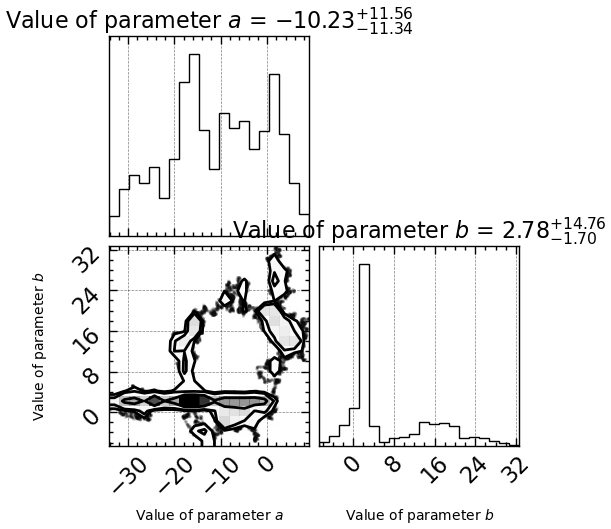
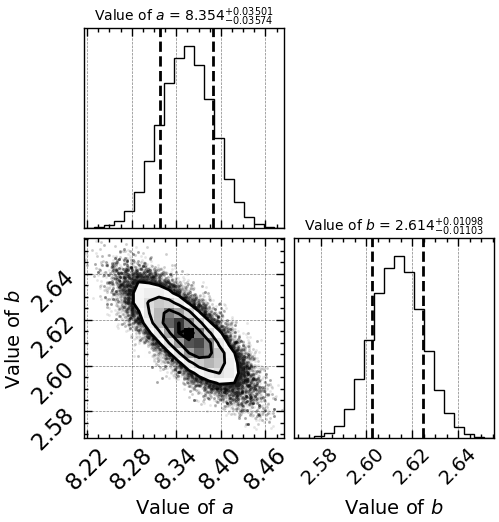
MCMC linear corner plot comlete

Changed region(s): [[0.0, 0.0, 1.0, 1.0]]

diff --git a/data_fitter.py b/data_fitter.py
@@ -79,7 +79,7 @@ def linear_ls(data_x, data_y):
     )
 
     # Generate results, only fit parameters are of concerns
-    result = fit_param
+    result = fit_param, fit_sigma
 
     # Print results
     print()
@@ -122,7 +122,7 @@ def linear_ll(data_x, data_y, param_a, param_b):
     fit_sigma = np.std(data_y - fit_model)
     # Return callable linear log likelihood calculation result
     return -0.5 * np.sum(
-        (data_y - fit_model) ** 2 / fit_sigma**2
+        ((data_y - fit_model) ** 2) / (2 * fit_sigma**2)
         + np.log(2 * np.pi * fit_sigma**2)
     )
 
@@ -197,39 +197,54 @@ def linear_ml(data_x, data_y, fit_param):
 
 # %% Metropolis - MCMC
 # Linear MCMC function
-def linear_mcmc(data_x, data_y):
-    # Local variable repo
+def linear_mcmc(data_x, data_y, fit_ref):
+    # Local variable repo, define total iterations and init counter
     data_step, data_accept = 100000, 0
 
     # Generate empty chains
     data_a, data_b, data_ll, data_mcmc = (
+        # Empty a value chain, all values are zero
         np.zeros(data_step),
+        # Empty b value chain, all values are zero
         np.zeros(data_step),
+        # Empty log likelihood chain, all values are zero
         np.zeros(data_step),
+        # Empty mcmc sample chain, 2 columns, all values are zero
         np.zeros((data_step, 2)),
     )
 
     # Initialize chains with initial values
-    data_a[0], data_b[0] = 1.0, 1.0
-    fit_a_coeff, fit_b_coeff = 0.1, 0.1
-    data_ll[0] = linear_ll(data_x, data_y, data_a[0], data_b[0])
-    data_mcmc[0] = data_a[0], data_b[0]
+    data_a[0], data_b[0], fit_a_sigma, fit_b_sigma = (
+        # First a value guess from ls fitting results
+        fit_ref[0][0], 
+        # First b value guess from ls fitting results
+        fit_ref[0][1],
+        # Sigma of a guesses
+        fit_ref[1][0],
+        # Sigma of b guesses
+        fit_ref[1][1],
+    )
+    
+    data_ll[0], data_mcmc[0] = (
+        linear_ll(data_x, data_y, data_a[0], data_b[0]),
+        (data_a[0], data_b[0]),
+    )
 
-    # MCMC 
+    # MCMC loop
     for i in range(1, data_step):
         # Get temp a, b value
         temp_a, temp_b = (
-            data_a[i-1] + fit_a_coeff * np.random.randn(1),
-            data_b[i-1] + fit_b_coeff * np.random.randn(1),
+            data_a[i-1] + fit_a_sigma * np.random.randn(1),
+            data_b[i-1] + fit_b_sigma * np.random.randn(1),
         )
         # Get temp ll from temp a, b
         temp_ll = linear_ll(data_x, data_y, temp_a, temp_b)
 
         # Generate ratio from ll
-        mcmc_ratio = temp_ll / data_ll[i-1]
+        mcmc_ratio = np.exp(temp_ll - data_ll[i-1])
 
         # Ratio analysis
-        if mcmc_ratio >= np.random.rand(1):
+        if mcmc_ratio > np.random.rand(1) or mcmc_ratio >= 1:
             # Update state
             data_a[i], data_b[i], data_ll[i] = temp_a, temp_b, temp_ll
             # Update counter
@@ -246,8 +261,8 @@ def linear_mcmc(data_x, data_y):
 
     # Dataset construction
     fit_mean, fit_std, fit_cov = (
-        [np.mean(data_a), np.mean(data_b)],
-        [np.std(data_a), np.std(data_b)],
+        (np.mean(data_a), np.mean(data_b)),
+        (np.std(data_a), np.std(data_b)),
         np.cov(data_a, data_b)[0,1],
     )
 
@@ -255,6 +270,7 @@ def linear_mcmc(data_x, data_y):
     print()
     print(f"{'Linear-MCMC result:':<30}")
     print("=" * 30)
+    print(f"{'MCMC attempts:':<20}{data_step:>10.4g}")
     print(f"{'Acceptance rate:':<20}{data_ratio:>10.4g}")
     print(f"{'Mean intercept:':<20}{fit_mean[0]:>10.4g}")
     print(f"{'Mean slope:':<20}{fit_mean[1]:>10.4g}")

diff --git a/main.py b/main.py
@@ -20,20 +20,22 @@ from data_plotter import baysian_plotter, linear_mcmc_plotter
 # Assign file path
 file_1, file_2 = "./data/MDC1.txt", "./data/MDC2.txt"
 # Assign x,y data array from function call
-data_x1, data_y1 = file_loader(file_1)  # MDC1 dataset
-data_x2, data_y2 = file_loader(file_2)  # MDC2 dataset
+(data_x1, data_y1), (data_x2, data_y2) = (
+    file_loader(file_1),  # MDC1 dataset
+    file_loader(file_2),  # MDC2 dataset
+)
 
 # %% 1.1 - Get ordinary linear least squares fit result print out for MDC1.txt
 res_linear_ls = linear_ls(data_x1, data_y1)
 
 # %% 1.2 - Get maximum likelihood fitting result for MDC1.txt
 # Deposit linear ls fit param for ml initial guesses
-res_linear_ml = linear_ml(data_x1, data_y1, res_linear_ls)
+res_linear_ml = linear_ml(data_x1, data_y1, res_linear_ls[0])
 # Generate ml baysian credible region plot
 baysian_plotter(res_linear_ml)
 
 # %% 1.3 - MCMC linear fit with corner plot
 # Deposit mcmc data
-res_linear_mcmc = linear_mcmc(data_x1, data_y1)
+res_linear_mcmc = linear_mcmc(data_x1, data_y1, res_linear_ls)
 # Generate mcmc corner plot
 linear_mcmc_plotter(res_linear_mcmc)

diff --git a/data_plotter.py b/data_plotter.py
@@ -7,6 +7,7 @@ Created on Thu Apr 06 2023
 @author: Yang-Taotao
 """
 # %% Library import
+import numpy as np
 import matplotlib.pyplot as plt
 import corner
 import scienceplots
@@ -62,10 +63,30 @@ def baysian_plotter(arg):
 def linear_mcmc_plotter(data_mcmc):
 
     # Plot param repo
-    labels = ["$a$", "$b$"]
+    label, quantile = (
+        # Set a, b axis label, render LaTeX
+        [r"Value of $a$", r"Value of $b$"],
+        # Set 65% quantiles
+        [0.16, 0.84],
+    )
 
     # Plot the corner plot
-    corner.corner(data_mcmc, labels=labels, show_titles=True)
+    corner.corner(
+        data_mcmc,
+        labels=label,
+        quantiles=quantile, 
+        max_n_ticks=5,
+        show_titles=True,
+        title_fmt=".4g",
+        label_kwargs={"fontsize": 14},
+        title_kwargs={"fontsize": 10},
+        plot_density=True,
+        plot_datapoints=True,
+    )
+
+    # Plot customization, add ticks
+    plt.xticks(fontsize=14)
+    plt.yticks(fontsize=14)
 
     # Save and close
     plt.savefig("./media/fig_2_mcmc.png")
